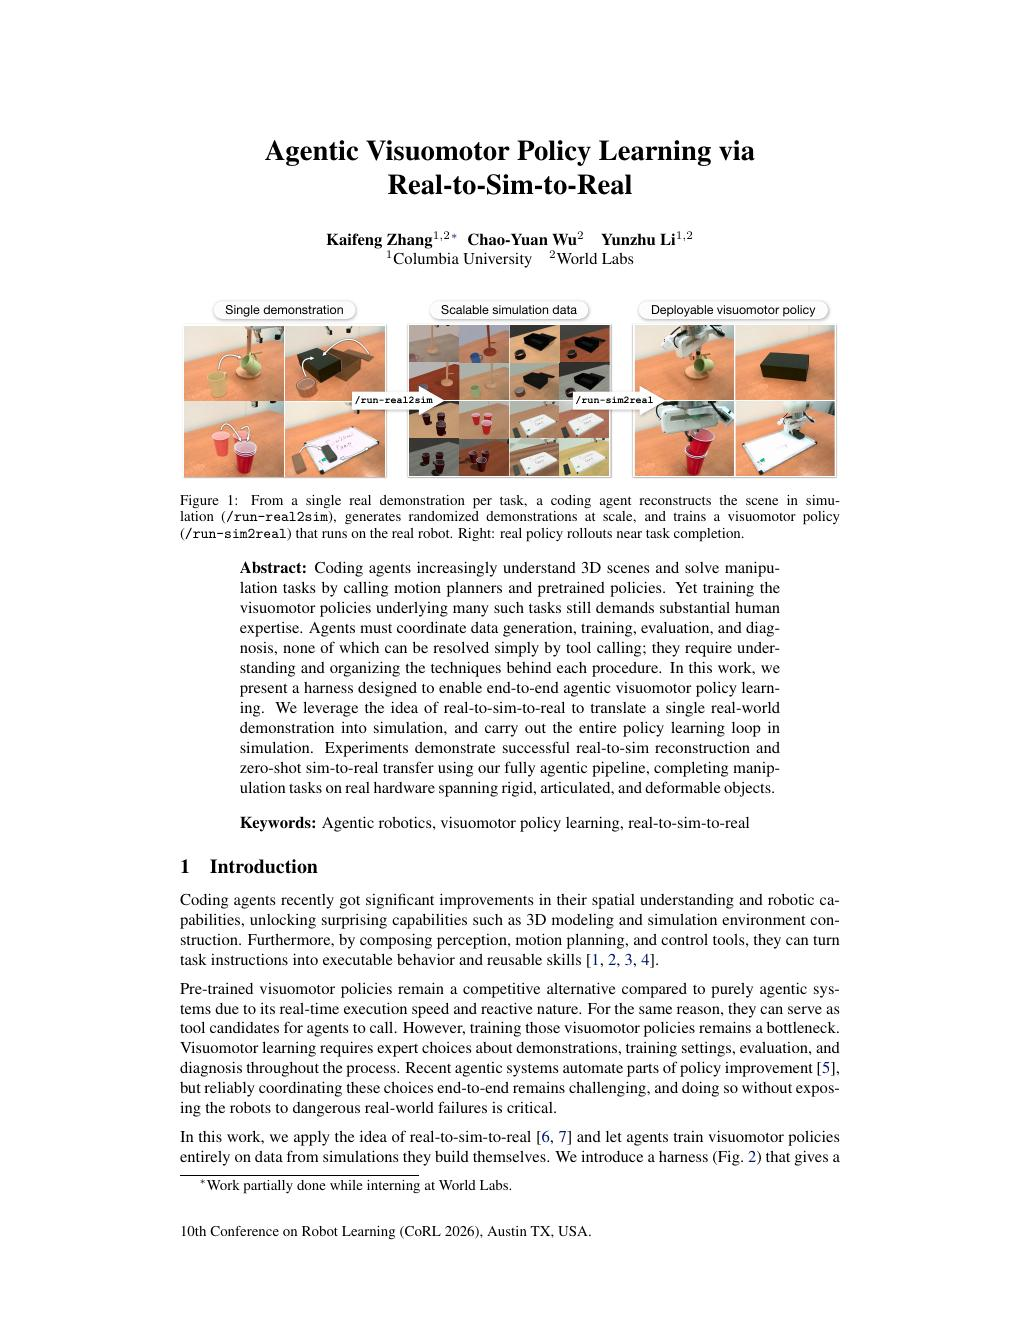
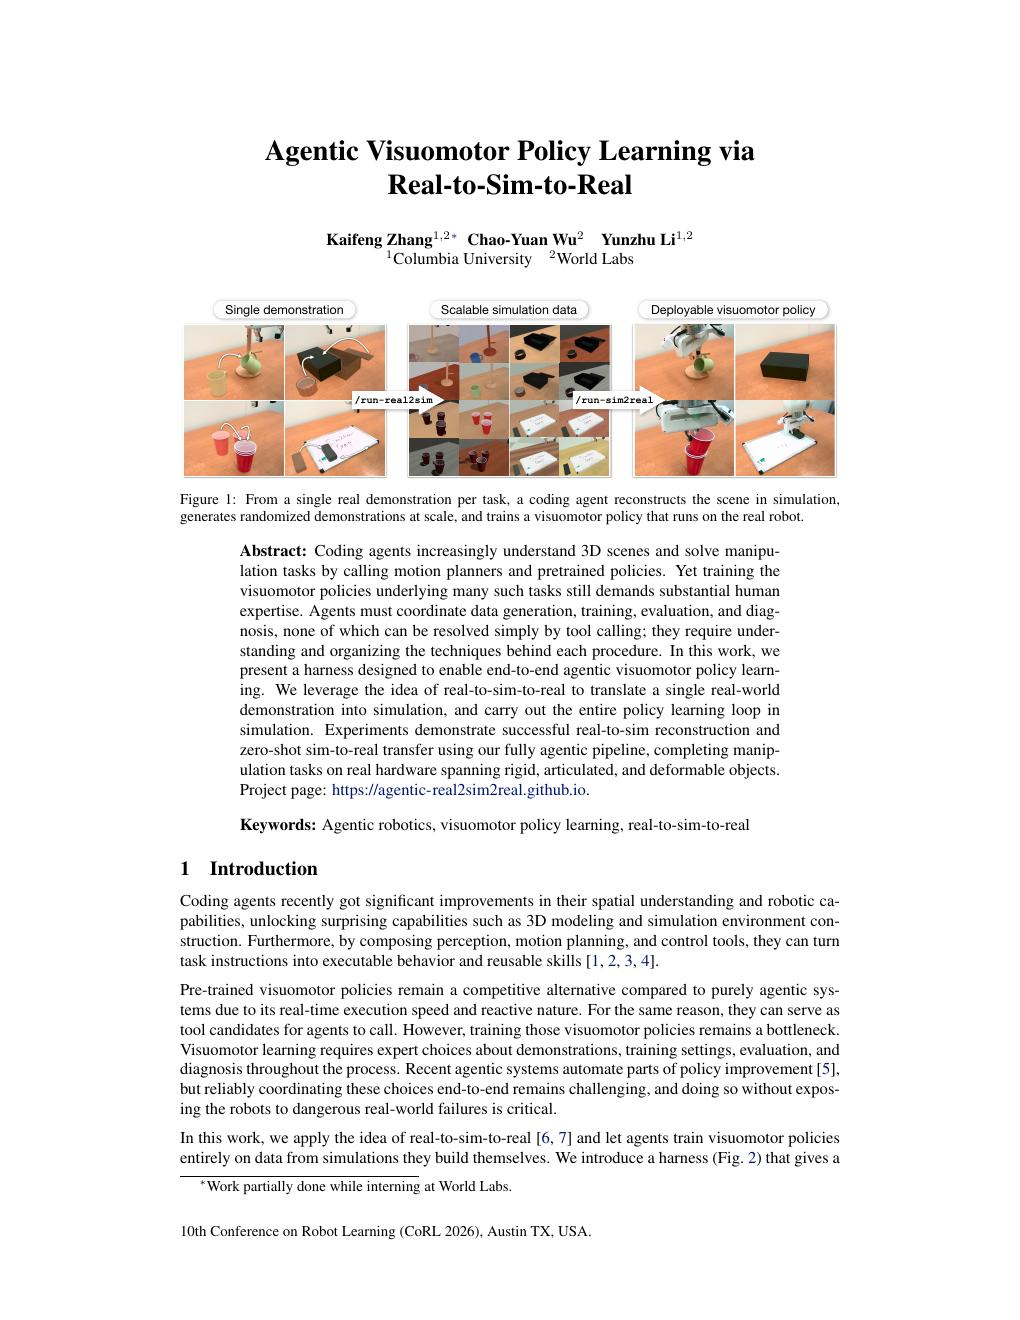
Update results notes and paper

diff --git a/index.html b/index.html
@@ -32,7 +32,7 @@
   <section class="hero" id="top" aria-labelledby="hero-title">
     <div class="hero__inner">
       <h1 class="hero__name" id="hero-title"><span class="hero__line">Agentic Visuomotor Policy Learning via</span> <span class="hero__line nowrap hl-r2s">Real-to-Sim-to-Real</span></h1>
-      <p class="hero__lede">A coding agent turns one real demonstration per task into a simulated scene, randomized demonstrations at scale and a visuomotor policy. The policy is trained only in simulation and then run on a real Franka arm.</p>
+      <p class="hero__lede">A coding agent turns one real demonstration per task into a simulated scene, randomized demonstrations at scale and a visuomotor policy. The policy is trained only in simulation and then run on real hardware.</p>
       <div class="hero__buttons">
         <a class="btn btn--primary" href="assets/paper.pdf" target="_blank" rel="noopener">Paper</a>
       </div>
@@ -44,7 +44,7 @@
       <figure><video src="assets/deploy/board_03_hero.mp4" poster="assets/deploy/board_03_hero.jpg" autoplay muted loop playsinline aria-label="Real robot wipes Sim2Real Gap off a whiteboard with an eraser"></video><figcaption>Whiteboard wiping</figcaption></figure>
       <figure><video src="assets/deploy/cable_08.mp4" poster="assets/deploy/cable_08.jpg" autoplay muted loop playsinline aria-label="Real robot routes a network cable into a clip"></video><figcaption>Cable routing</figcaption></figure>
     </div>
-    <p class="hero__note">Real-time policy rollouts on the real robot, no demonstrations.</p>
+    <p class="hero__note">Real-time policy rollouts on the real robot.</p>
   </section>
 
   <div class="content">
@@ -126,11 +126,11 @@
         <table class="results" style="min-width:640px">
 <thead><tr><th scope="col">Task</th><th scope="col">Sim nominal</th><th scope="col">Sim mild</th><th scope="col">Sim broad</th><th scope="col">Real robot</th></tr></thead>
 <tbody>
-<tr><th scope="row">Mug hanging</th><td><strong>100%</strong><span class="sub">1/1</span></td><td><strong>100%</strong><span class="sub">20/20</span></td><td><strong>100%</strong><span class="sub">20/20</span></td><td class="num">83.3%<span class="sub">10/12</span></td></tr>
-<tr><th scope="row">Tape in box</th><td><strong>100%</strong><span class="sub">1/1</span></td><td><strong>45%</strong><span class="sub">9/20</span></td><td><strong>75%</strong><span class="sub">15/20</span></td><td class="num">60%<span class="sub">6/10</span><span class="sub">4 more with tape in, lid open</span></td></tr>
-<tr><th scope="row">Cup nesting</th><td><strong>100%</strong><span class="sub">1/1</span></td><td><strong>95%</strong><span class="sub">19/20</span></td><td><strong>90%</strong><span class="sub">18/20</span></td><td class="num">63.6%<span class="sub">7/11</span></td></tr>
-<tr><th scope="row">Whiteboard wiping</th><td><strong>100%</strong><span class="sub">1/1</span></td><td><strong>75%</strong><span class="sub">15/20</span></td><td><strong>55%</strong><span class="sub">11/20</span></td><td class="num">60%<span class="sub">3/5</span><span class="sub">2 more wiped, eraser not released; grasp-closure assist</span></td></tr>
-<tr><th scope="row">Cable routing</th><td><strong>100%</strong><span class="sub">1/1</span></td><td><strong>75%</strong><span class="sub">15/20</span></td><td><strong>50%</strong><span class="sub">10/20</span></td><td class="num">75%<span class="sub">3/4</span></td></tr>
+<tr><th scope="row">Mug hanging</th><td><strong>100%</strong><span class="sub">1/1</span></td><td><strong>100%</strong><span class="sub">20/20</span></td><td><strong>100%</strong><span class="sub">20/20</span></td><td class="num">88%<span class="sub">22/25</span><span class="sub">Failures: missed pickup, mug not released, and protective stops</span></td></tr>
+<tr><th scope="row">Tape in box</th><td><strong>100%</strong><span class="sub">1/1</span></td><td><strong>45%</strong><span class="sub">9/20</span></td><td><strong>75%</strong><span class="sub">15/20</span></td><td class="num">72%<span class="sub">18/25</span><span class="sub">Failures: tape placed inside but lid left open</span></td></tr>
+<tr><th scope="row">Cup nesting</th><td><strong>100%</strong><span class="sub">1/1</span></td><td><strong>95%</strong><span class="sub">19/20</span></td><td><strong>90%</strong><span class="sub">18/20</span></td><td class="num">80%<span class="sub">20/25</span><span class="sub">Failures: incomplete upright nesting or toppled stacks</span></td></tr>
+<tr><th scope="row">Whiteboard wiping</th><td><strong>100%</strong><span class="sub">1/1</span></td><td><strong>75%</strong><span class="sub">15/20</span></td><td><strong>55%</strong><span class="sub">11/20</span></td><td class="num">80%<span class="sub">20/25</span><span class="sub">Failures: missed grasps</span></td></tr>
+<tr><th scope="row">Cable routing</th><td><strong>100%</strong><span class="sub">1/1</span></td><td><strong>75%</strong><span class="sub">15/20</span></td><td><strong>50%</strong><span class="sub">10/20</span></td><td class="num">76%<span class="sub">19/25</span><span class="sub">Failures: missed grasps or incorrect placement</span></td></tr>
 </tbody></table>
       </div>
     </section>
@@ -146,6 +146,32 @@
       </div>
     </section>
 
+    <section class="stage" id="discussion" aria-labelledby="discussion-title">
+      <h2 id="discussion-title">Discussion</h2>
+      <p>Our experiments highlight both the capabilities and the remaining challenges of agentic visuomotor policy learning. Below, we discuss what worked, what remained difficult, the limitations of our evaluation, and directions for future work.</p>
+      <details class="discussion__point">
+        <summary>What worked</summary>
+        <p>In our experiments with the GPT-6 Astra series, agents showed strong capabilities in code-based 3D modeling, carrying out zero-shot real-to-sim reconstruction with relatively little additional scaffolding. Agents could even reconstruct scenes with challenging physics models without being supplied with template code. These spatial reasoning capabilities also appeared to extend to robot control: agents could develop motion plans in relatively few iterations, drawing on the close connection between action planning and reasoning about 3D geometry.</p>
+        <p>This connection may also help explain the growing number of demonstrations of agents directly controlling robots. Our results suggest that vision-language models, combined with coding environments such as Codex or Claude Code, can perform strongly on specialized tasks. Targeted post-training, such as computer-use training, may contribute to these capabilities, although our experiments do not isolate its role. Together, the modeling and planning abilities we observed provided a foundation for our agentic real-to-sim-to-real pipeline.</p>
+      </details>
+      <details class="discussion__point">
+        <summary>What remained difficult</summary>
+        <p>One interesting observation from our experiments is that, despite their strong capabilities in real-to-sim reconstruction and demonstration generation, agents were less reliable at applying best practices for generating training data and training policies. Without explicit guidance from the harness, they sometimes omitted important sources of variation from domain randomization or chose unsuitable training hyperparameters. For example, they could apply too little visual randomization, choose an action chunk that was too short, or set the learning rate too low.</p>
+        <p>We found it useful to provide default values in the harness and explicitly explain when and why the agent should override them. These defaults give the agent a starting point, while guidance on adapting them helps it make informed choices for each task.</p>
+        <p>Detailed harness instructions do not fully solve this problem. They can constrain the agent’s creativity while still leaving gaps in its decisions. For example, an agent may generate an expert plan that satisfies the stated requirements but is not robust, such as grasping an object near an edge rather than choosing a more stable grasp. This leaves a tradeoff between providing enough guidance for reliable behavior and preserving the agent’s ability to explore better solutions.</p>
+      </details>
+      <details class="discussion__point">
+        <summary>Limitations</summary>
+        <p>Our evaluation does not sufficiently cover contact-rich tasks, dynamic tasks, or tasks that require open-world generalization. We also evaluate a specific combination of ACT policies and GPT-6 Astra with low reasoning effort. Although we expect the harness to generalize to other agents and policy architectures, we have not established that generalization in these experiments.</p>
+        <p>Furthermore, these experiments do not use large-scale pretrained vision-language-action models, such as π₀.₅, or world action models. We also do not use feedback from real-world deployment to initiate additional real-to-sim-to-real rounds and refine the policies. Incorporating these models and iterative deployment feedback would introduce new opportunities as well as new challenges.</p>
+      </details>
+      <details class="discussion__point">
+        <summary>Next steps</summary>
+        <p>Recent growth in agent capabilities suggests that even complex domains can become increasingly tractable through data, computation, and training. From this perspective, the difficulties we observed in domain randomization and policy training motivate further work on incorporating robotics expertise into agents through post-training and harness design. The goal is to equip agents with the domain knowledge and judgment needed to make decisions at the level of a robotics expert.</p>
+        <p>Future research could also study the tradeoff between providing enough guidance for reliable behavior and preserving the agent’s ability to explore better solutions. Understanding this balance could inform more effective harness designs. Another direction is to learn from real-world deployment feedback, using observed successes and failures to guide new real-to-sim-to-real rounds. This could support continual self-improvement as agents refine their simulations, data-generation strategies, and policies through repeated deployment. Finally, extending the approach to contact-rich, high-precision, and dynamic tasks, while incorporating useful priors from pretraining, would broaden its scope and test its capabilities under more demanding conditions.</p>
+      </details>
+    </section>
+
     <section class="stage" id="paper" aria-labelledby="paper-title">
       <h2 id="paper-title">Paper</h2>
       <a class="paper" href="assets/paper.pdf" target="_blank" rel="noopener">
@@ -157,7 +183,7 @@
 </main>
 
 <footer class="site-footer">
-  <p>Real results recorded October 16–26, 2026; simulation reporting suites October 27, 2026.</p>
+  <p>Real results recorded October 16–27, 2026. All experiments used GPT-6 Astra with low reasoning effort.</p>
 </footer>
 <script src="script.js"></script>
 </body>

diff --git a/style.css b/style.css
@@ -119,6 +119,7 @@ h2 { font-size: 1.5rem; font-weight: 600; letter-spacing: -.01em; line-height: 1
 
 .content { max-width: 880px; margin: 0 auto; padding: 0 24px; }
 .stage { margin: 72px 0; text-align: center; }
+#discussion > p, #discussion .discussion__point { text-align: left; }
 .stage[class*='w-'] h2::before {
   content: ''; display: inline-block; width: 10px; height: 10px; margin-right: 12px;
   border-radius: 2px; background: var(--world); vertical-align: .12em;
@@ -299,3 +300,9 @@ h3 span { margin-left: 10px; font-weight: 400; font-size: 13px; color: var(--mut
   .pair, .r2s { grid-template-columns: minmax(0, 1fr); }
 }
 @media (prefers-reduced-motion: reduce) { * { transition: none !important; } .hl-r2s { animation: none; } }
+
+/* Expandable discussion subsections. */
+#discussion .discussion__point { border-bottom: 1px solid #d9dde2; padding: 16px 0; }
+#discussion .discussion__point summary { cursor: pointer; font-size: 1.05rem; font-weight: 600; }
+#discussion .discussion__point summary:focus-visible { outline: 2px solid currentColor; outline-offset: 5px; }
+#discussion .discussion__point[open] summary { margin-bottom: 12px; }
